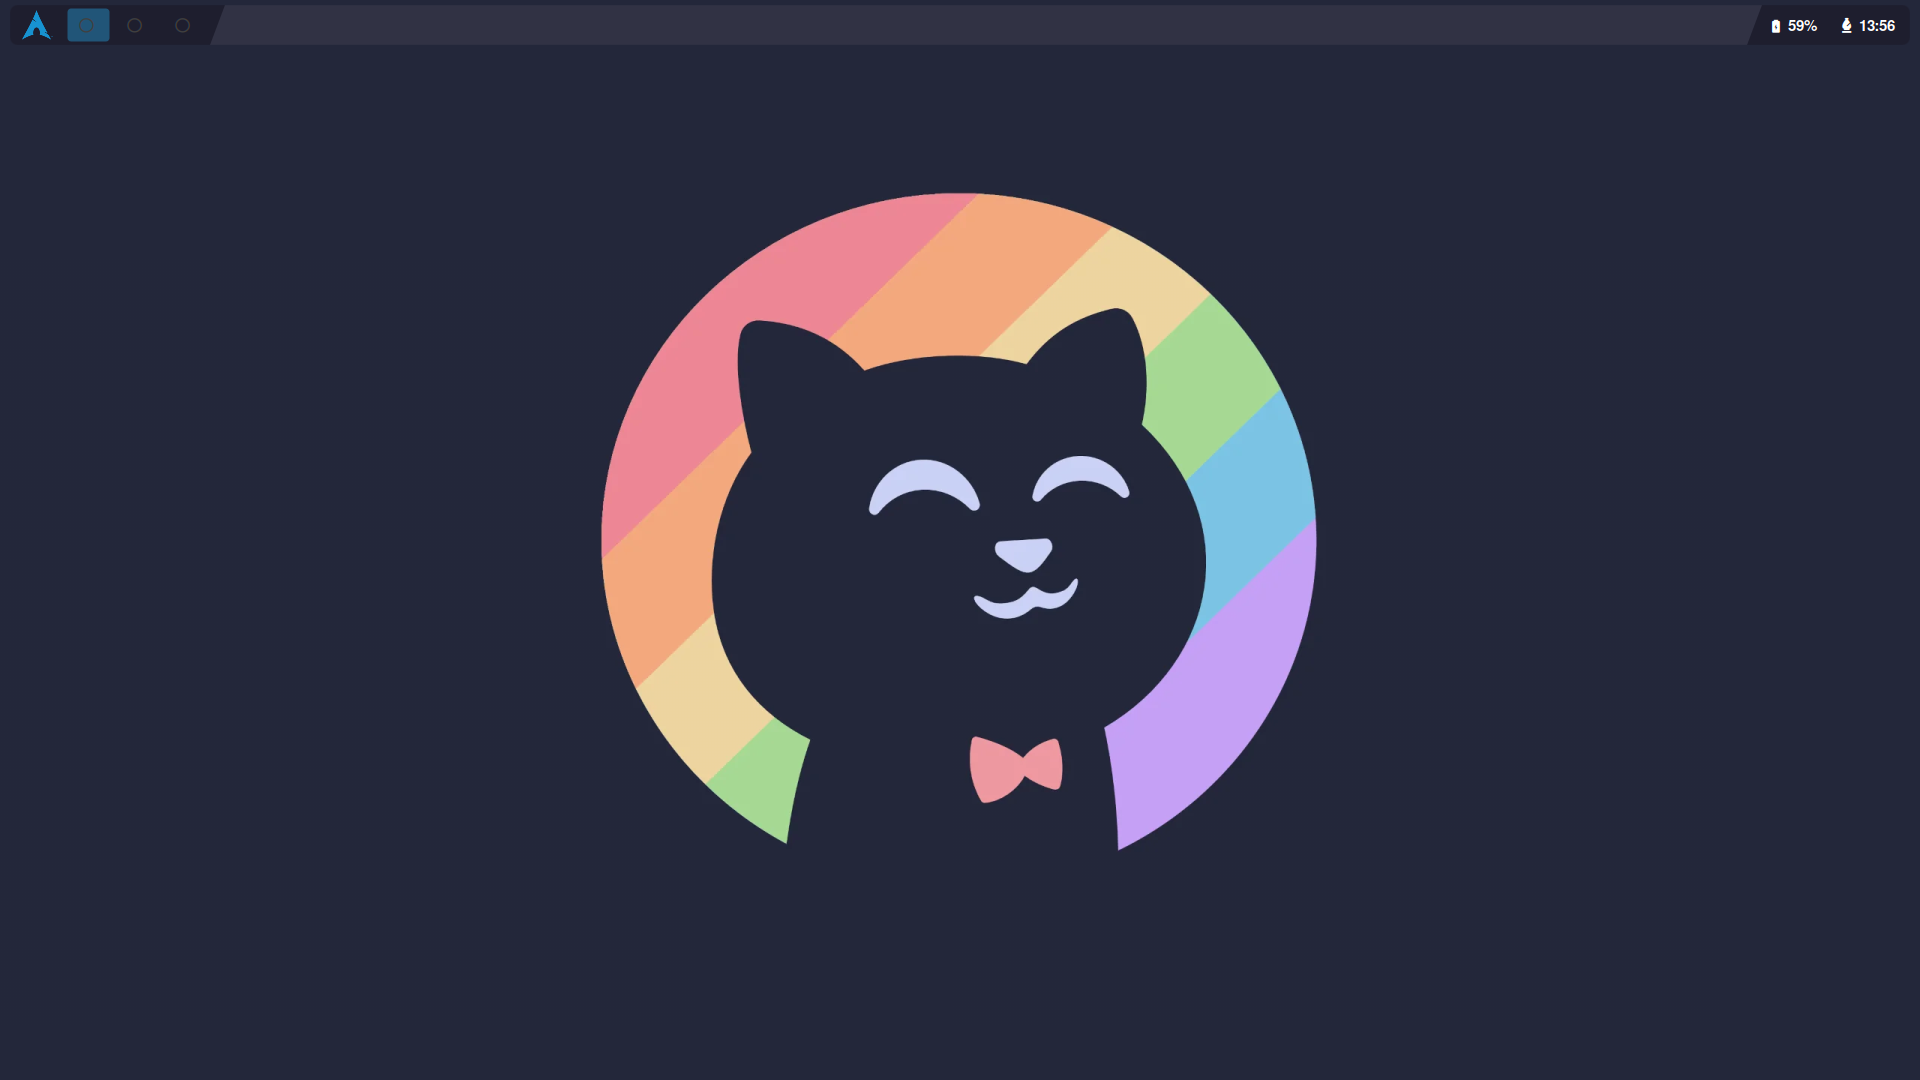
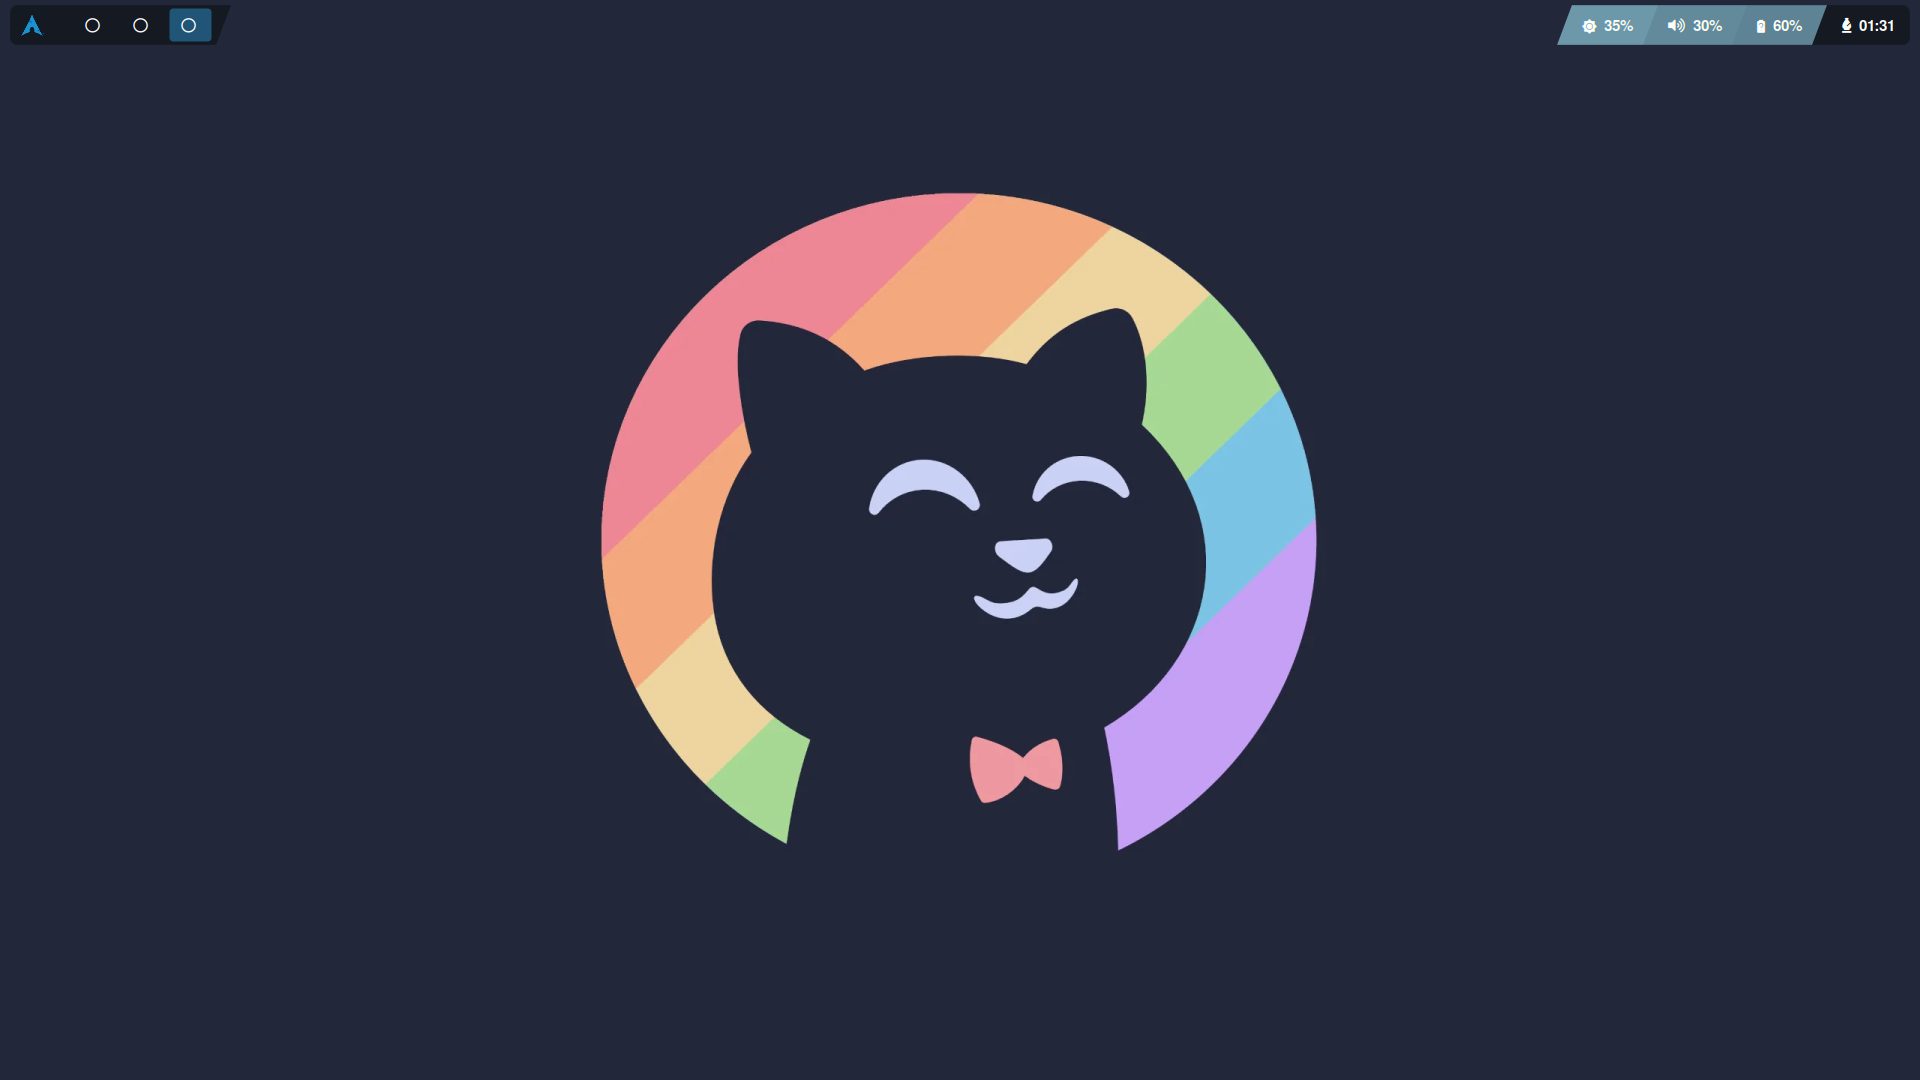
Added brightnessctrl, amixer, scrot shortcuts

Changed region(s): [[0.8125, 0.0, 1.0, 0.0611], [0.0, 0.0, 0.125, 0.0611]]

diff --git a/config.py b/config.py
@@ -78,6 +78,16 @@ def autostart():
 def restart():
     subprocess.Popen(["wal", "-i", images_dir])
 
+
+def toggle_keyboard_layout(qtile):
+    current_layout = subprocess.run(['setxkbmap', '-query'], capture_output=True, text=True).stdout
+    if 'br' in current_layout:
+        # Switch to US English layout
+        subprocess.run(['setxkbmap', 'us'])
+    else:
+        # Switch to Brazilian Portuguese ABNT2 layout
+        subprocess.run(['setxkbmap', 'br', 'abnt2'])
+
 # Key Bindings ------------------------------------------
 keys = [
     # Switch between windows
@@ -121,12 +131,21 @@ keys = [
     # Spawn default file explorer
     Key([modifier], "e", lazy.spawn(explorer), desc="Spawn file explorer"),
 
-    # Raise and lower volume
-    Key([], "XF86AudioRaiseVolume", lazy.spawn("pulsemixer --change-volume +5")),
-    Key([], "XF86AudioLowerVolume", lazy.spawn("pulsemixer --change-volume -5")),
+    # Raise, lower and mute volume
+    Key([], "XF86AudioRaiseVolume", lazy.spawn("amixer set Master 5%+"), desc="Increase volume using amixer"),
+    Key([], "XF86AudioLowerVolume", lazy.spawn("amixer set Master 5%-"), desc="Decrease volume using amixer"),
+    Key([], "XF86AudioMute", lazy.spawn("amixer set Master toggle"), desc="Mute volume using amixer"),
+
+    # Key to increase and decrease screen brightness using brightnessctl
+    Key([], "XF86MonBrightnessUp", lazy.spawn("brightnessctl set +5%"), desc="Increase brightness using brightnessctl"),
+    Key([], "XF86MonBrightnessDown", lazy.spawn("brightnessctl set 5%-"), desc="Decrease brightness using brightnessctl"),
+
+    # Key to toggle between Brazilian Portuguese ABNT2 and US English
+    Key(["mod1"], "Tab", lazy.function(toggle_keyboard_layout), desc="Toggle keyboard layout between BR ABNT2 and US"),
 
     # Printscreen
     Key([], "Print", lazy.spawn("scrot")),
+    Key([modifier, "shift"], "s", lazy.spawn("scrot -s")),
 ]
 
 # Mouse Bindings --------------------------------------
@@ -187,7 +206,7 @@ for _ in range(num_screens):
                     background = pywal_theme["base"], 
                     filename = os.path.join(images_dir, "arch-linux-icon.png"),                    
                     scale = True, 
-                    margin_y = 5,
+                    margin_y = 9,
                     **powerline_forward_slash,
                 ),
                 
@@ -204,9 +223,26 @@ for _ in range(num_screens):
                     **powerline_forward_slash,
                 ),
 
+                widget.Backlight(
+                    backlight_name="nvidia_0",  
+                    format = '\U000f00e0  {percent:2.0%}',  
+                    background = pywal_theme["text"],
+                    font = font_family_bold,
+                    **powerline_forward_slash,
+                ),
+
+                widget.Volume(
+                    # emoji=True,
+                    # emoji_list=['\u000f075f', '\u000f0580', '\u000f057e', '\u000f057e'],
+                    fmt = '\uf028  {}',
+                    background = pywal_theme["surface1"],
+                    font = font_family_bold,
+                    **powerline_forward_slash,
+                ),
+
                 widget.Battery(
                     format = '{char}  {percent:2.0%}',  
-                    background = pywal_theme["base"], 
+                    background = pywal_theme["surface0"],
                     font = font_family_bold,
                     charge_char = "\U000f0084",  # Material Design icon for charging battery
                     discharge_char = "\U000f0083",  # Material Design icon for discharging battery
@@ -226,7 +262,7 @@ for _ in range(num_screens):
             ],
             40,
             background = "#00000000",
-            margin=(5, 10, 5, 10),
+            margin=(5, 10, 15, 10),
         ),
     )
     screens.append(screen)
